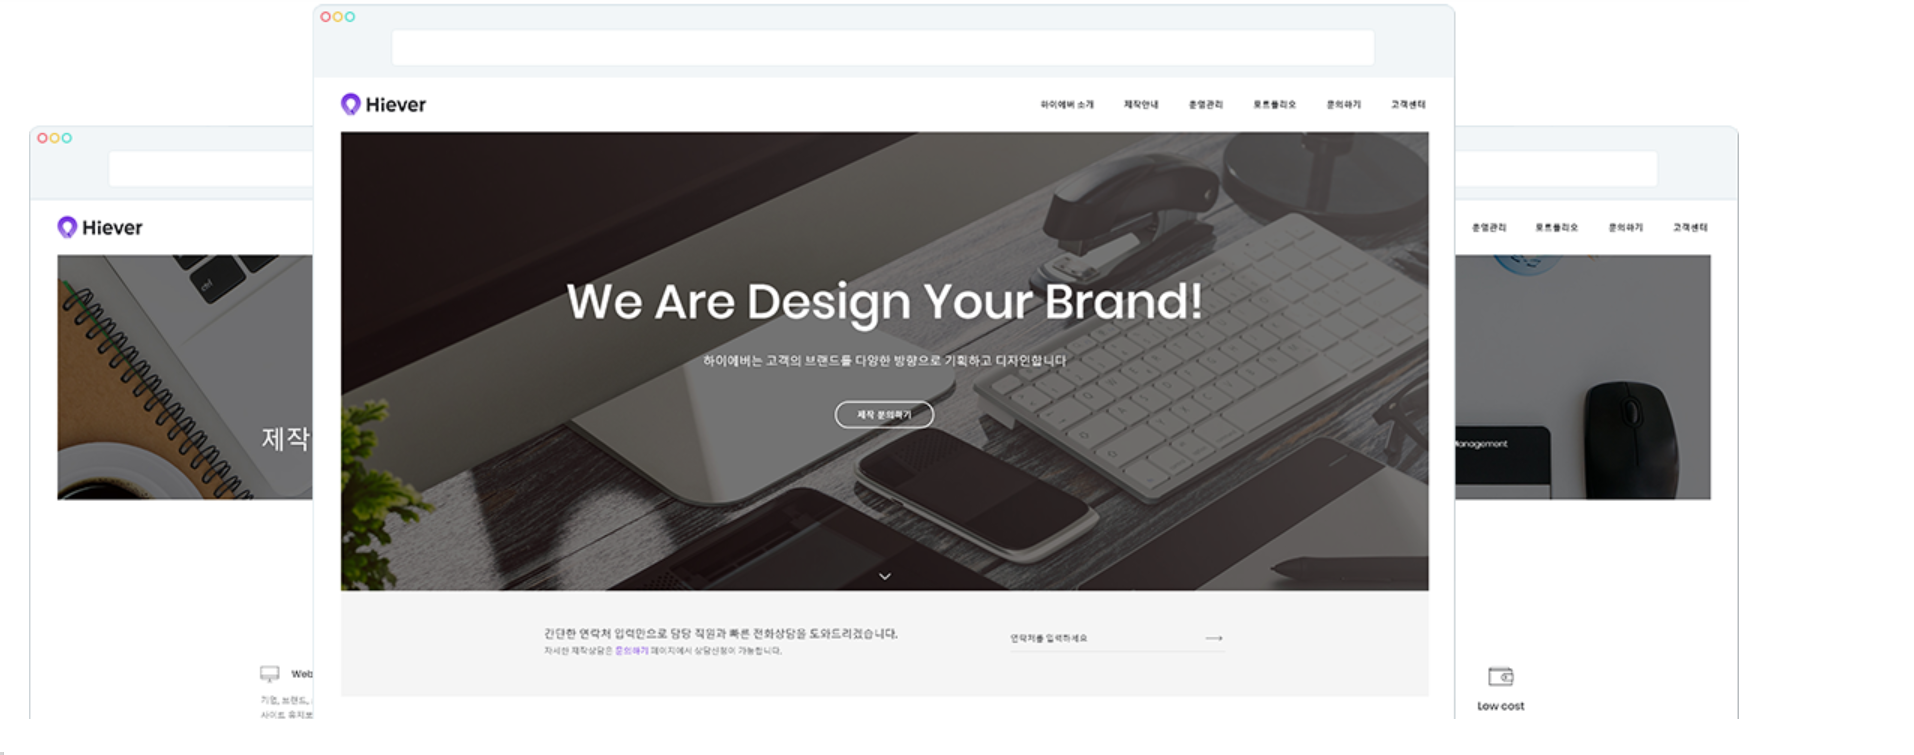
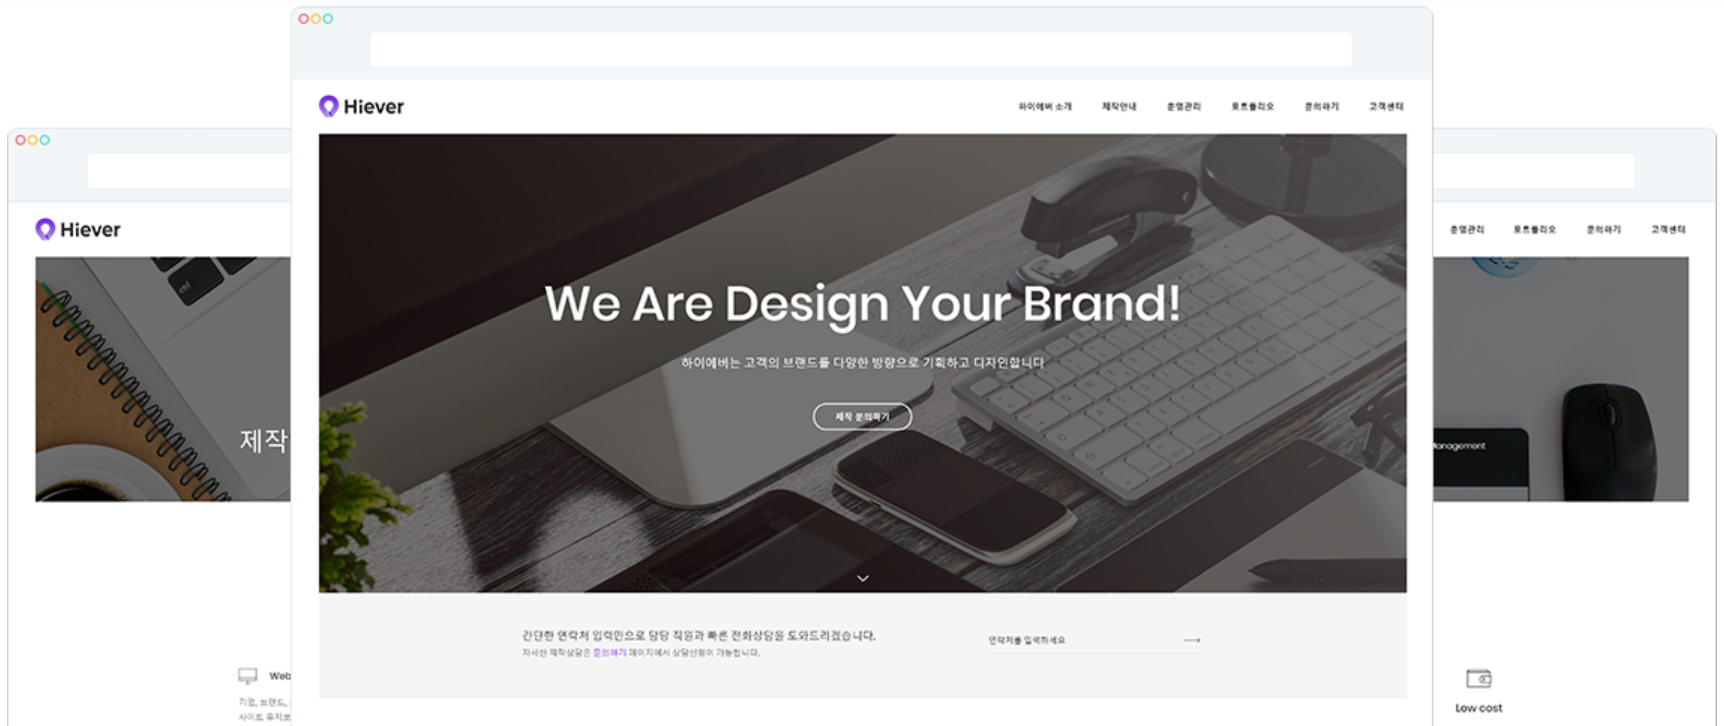
hiever

diff --git a/Main/main2.html b/Main/main2.html
@@ -9,7 +9,7 @@
     <body>
         <div>
             <div style="float:left;">
-                <h1><img src="../bar/logo.png" width="230" height="60"></h1>
+                <h1><a href="../Main/main2.html"><img src="../bar/logo.png" width="230" height="50"></a></h1>
             </div>
             <ul class="menu_bar"style="float:right;">
                 <li class="menu_bar2"><a class="menu_bar3" href="하이에버 소개">하이에버 소개</a></li>
@@ -18,60 +18,56 @@
                 <li class="menu_bar2"><a class="menu_bar3" href="../Customer_Center/customer_center.html">고객 센터</a></li>
             </ul>
         </div>
-        <div class="">
-            <div class="">
-                <h1>Why Choose Us?</h1>
-                <div class="">
-                    하이에버는 고객의 니즈를 높은 퀄리티로 구현하기 위해 많은 연구를 하며, 평생 온라인 파트너로써 디테일한 업무를 제공합니다.
+        <div class="center">
+            <h1>Why<span style="color:#8000FF;"> Choose Us?</span></h1>
+        </div>
+        <div class="account">
+            하이에버는 고객의 니즈를 높은 퀄리티로 구현하기 위해 많은 연구를 하며, 평생 온라인 파트너로써 디테일한 업무를 제공합니다.
+        </div>
+        <div>
+            <table class="choose_kind">
+                <tr>
+                    <th class="choose_icon"><img class= "choose_icon2" src="photo/heart_icon.png" width="40" height="30">The Competitiveness</th>
+                    <th class="choose_icon"><img class= "choose_icon2" src="photo/our_partnership_icon.png" width="40" height="30">Our Partnership</th>
+                </tr>
+                <tr>
+                    <td class="choose_kind_account">어떤 방법론에 한정짓지 않는 오픈 마인드와 디자인 컨텐츠에 신선함과 즐거움이 있는 크리에이티브한 제작 방식으로 고객이 원하는 결과를 만들어냅니다. 브랜드의 경쟁력은 잘만든 디자인과 효과적인 마케팅이 합쳐졌을때 그 힘을 발휘 합니다.</td>
+                    <td class="choose_kind_account">홈페이지를 고객에게 가장 효과적으로 노출시킬 다양한 방법을 안내드리며 여러가지 루트를 통해 브랜드에 맞는 최고의 마케팅을 컨설팅 해드립니다. 그리고 단순히 제작만 하는 회사가 아닌 미래를 같이 바라보는 파트너가 될 것입니다.</td>
+                </tr>
+                <tr>
+                    <th class="choose_icon"><img class= "choose_icon2" src="photo/web_standard_icon.png" width="40" height="30">Web Standard</th>
+                    <th class="choose_icon"><img class= "choose_icon2" src="photo/high_completeness_icon.png" width="40" height="30">High Completeness</th>
+                </tr>
+                <tr>
+                    <td class="choose_kind_account">스마트기기가 일상 생활에 가깝게 다가오면서 컴퓨터로만 홈페이지에 접속하던 때는 지났으며 다양한 환경에서 동일하게 구현되도록 웹표준을 준수하여 제작합니다.</td>
+                    <td class="choose_kind_account">제작물의 완성도를 높이기 위해 단 한칸의 픽셀도 놓치지 않습니다. 고객이 처음 접하게 되는 홈페이지는 단면적으로 기업의 마인드이자 브랜드의 얼굴이기 때문입니다.</td>
+                </tr>
+            </table>
+        </div>
+        <div class="client_background">
+            <div>
+                <div class="client">
+                    <h1>Client preference<span style="color:#8000FF;"> the bast</span></h1>
                 </div>
-            </div>
-            <div class="">
-                <div class="">
-                    <h3>The Competitiveness</h3>
-                    <div class="">
-                        어떤 방법론에 한정짓지 않는 오픈 마인드와 디자인 컨텐츠에 신선함과 즐거움이 있는 크리에이티브한 제작 방식으로 고객이 원하는 결과를 만들어냅니다. 브랜드의 경쟁력은 잘만든 디자인과 효과적인 마케팅이 합쳐졌을때 그 힘을 발휘 합니다.
-                    </div>
+                <div class="client_account">
+                    웹에이전시 고객 만족도 1위! 하이에버는 새롭고 다양한 디자인 컨텐츠와 기능 개발을 위해 더 많은 노력을 기울이고 있습니다.
                 </div>
-                <div class="">
-                    <h3>Our Partnership</h3>
-                    <div class="">
-                        홈페이지를 고객에게 가장 효과적으로 노출시킬 다양한 방법을 안내드리며 여러가지 루트를 통해 브랜드에 맞는 최고의 마케팅을 컨설팅 해드립니다. 그리고 단순히 제작만 하는 회사가 아닌 미래를 같이 바라보는 파트너가 될 것입니다.
-                    </div>
-                </div>
-                <div class="">
-                    <h3>Web Standard</h3>
-                    <div class="">
-                        스마트기기가 일상 생활에 가깝게 다가오면서 컴퓨터로만 홈페이지에 접속하던 때는 지났으며 다양한 환경에서 동일하게 구현되도록 웹표준을 준수하여 제작합니다.
-                    </div>
-                </div>
-                <div class="">
-                    <h3>High Completeness</h3>
-                    <div class="">
-                        제작물의 완성도를 높이기 위해 단 한칸의 픽셀도 놓치지 않습니다. 고객이 처음 접하게 되는 홈페이지는 단면적으로 기업의 마인드이자 브랜드의 얼굴이기 때문입니다.
-                    </div>
-                </div>
+                <div><a class="btn" href="">자세히 보기</a></div>
             </div>
         </div>
-        <div class="">
-            <h3>Client preference the bast</h3>
-            <div class="">
-                웹에이전시 고객 만족도 1위! 하이에버는 새롭고 다양한 디자인 컨텐츠와 기능 개발을 위해 더 많은 노력을 기울이고 있습니다.
-            </div>
-            <div class="">
-                자세히 보기
-            </div>
+        <div>
+            <img  class="photo" src="photo/homepage.png" width="1150" height="500">
         </div>
-        <div class="">
-            <img src="photo/homepage.png" width="1300" height="500">
-        </div>
-        <div class="">
-            빠르고 간편한 제작 상담으로 합리적인 결과를 드리겠습니다.
-            <div class="">
-                Provide reasonable results with quick and easy consultation.
-            </div>
-            <div class="">
-                CONTACT US
-            </div>
+        <div class="consultation">
+            <table>
+                <tr>
+                    <td style="font-size:20px;">빠르고 간편한 제작 상담으로 합리적인 결과를 드리겠습니다.</td>
+                    <td rowspan="2"><a class="contact_us" href="">CONTACT US</a></td>
+                </tr>
+                <tr>
+                    <td style="color:gray;">Provide reasonable results with quick and easy consultation.</td>
+                </tr>
+            </table>
         </div>
         <div class="lower_bar">
             <div>

diff --git a/Service/service.html b/Service/service.html
@@ -9,7 +9,7 @@
     <body>
         <div>
             <div style="float:left;">
-                <h1><img src="../bar/logo.png" width="230" height="60"></h1>
+                <h1><a href="../Main/main2.html"><img src="../bar/logo.png" width="230" height="50"></a></h1>
             </div>
             <ul class="menu_bar"style="float:right;">
                 <li class="menu_bar2"><a class="menu_bar3" href="하이에버 소개">하이에버 소개</a></li>
@@ -28,9 +28,9 @@
         <div>
             <table>
                 <tr>
-                    <th class="Overview_icon"><img class= "Overview_icon2" src="photo/web&mobile_icon.png" width="40" height="30" align ="left">Web & Mobile</th>
-                    <th class="Overview_icon"><img class= "Overview_icon2" src="photo/commerce_icon.png" width="50" height="40" align ="left">Commerce</th>
-                    <th class="Overview_icon"><img class= "Overview_icon2" src="photo/application_icon.png" width="40" height="30" align ="left">Application</th>
+                    <th class="Overview_icon"><img class= "Overview_icon2" src="photo/web&mobile_icon.png" width="40" height="30">Web & Mobile</th>
+                    <th class="Overview_icon"><img class= "Overview_icon2" src="photo/commerce_icon.png" width="50" height="40">Commerce</th>
+                    <th class="Overview_icon"><img class= "Overview_icon2" src="photo/application_icon.png" width="40" height="30">Application</th>
                 </tr>
                 <tr>
                     <td class="Overview_account">기업, 브랜드, 쇼핑몰 등 다양한 웹 & 모바일 사이트 구축, 사이트 유지보수, 웹표준, 웹접근성, 반응형 사이트 제작</td>

diff --git a/Main/main2.css b/Main/main2.css
@@ -1,0 +1,73 @@
+.center {
+    text-align: center;
+    padding-top: 80px;
+    font-size: 20px;
+}
+.account {
+    color: gray;
+    text-align: center;
+    padding-bottom: 40px;
+    font-size: 14px;
+}
+.choose_kind {
+    margin: 35px;
+}
+.choose_icon {
+    text-align: left;
+    padding: 0px 0px 10px 20px;
+}
+.choose_icon2 {
+    text-align: left;
+    padding-right: 20px;
+}
+.choose_kind_account {
+    padding: 0px 20px 40px 20px;
+    font-size: 14px;
+    color: gray;
+}
+.client_background {
+    background-color: #F2F2F2;
+    margin: 100px 40px;
+    padding: 50px 0px 150px 680px;
+}
+.client {
+        text-align: left;
+        padding-top: 80px;
+        padding-right: 30px;
+        font-size: 23px;
+}
+.client_account {
+        color: gray;
+        text-align: left;
+        padding-right: 80px;
+        padding-bottom: 40px;
+        font-size: 14px;
+}
+.btn {
+    padding: 10px 30px 10px 30px;
+    color: #8000FF;
+    background-color: #F2F2F2;
+    border-radius:25px;
+    border: 1px solid #8000FF;
+    font-weight: bold;
+    text-decoration: none;
+}
+.photo {
+    margin-left: 45px;
+}
+.consultation {
+    background-color: #F2F2F2;
+    margin: 0px 40px 0px 40px;
+    padding: 60px 5px 60px 5px;
+}
+
+.contact_us {
+    padding: 10px 30px 10px 30px;
+    color: white;
+    background-color: #7401DF;
+    border-radius:25px;
+    margin-left: 400px;
+    font-weight: bold;
+    text-decoration: none;
+
+}

diff --git a/Customer_Center/customer_center.html b/Customer_Center/customer_center.html
@@ -9,7 +9,7 @@
     <body>
         <div>
             <div style="float:left;">
-                <h1><img src="../bar/logo.png" width="230" height="60"></h1>
+                <h1><a href="../Main/main2.html"><img src="../bar/logo.png" width="230" height="50"></a></h1>
             </div>
             <ul class="menu_bar"style="float:right;">
                 <li class="menu_bar2"><a class="menu_bar3" href="하이에버 소개">하이에버 소개</a></li>

diff --git a/Service/service.css b/Service/service.css
@@ -20,6 +20,7 @@
 
 .Overview_icon2 {
     margin-right: 20px;
+    text-align: left;
 }
 
 .Overview_account {
